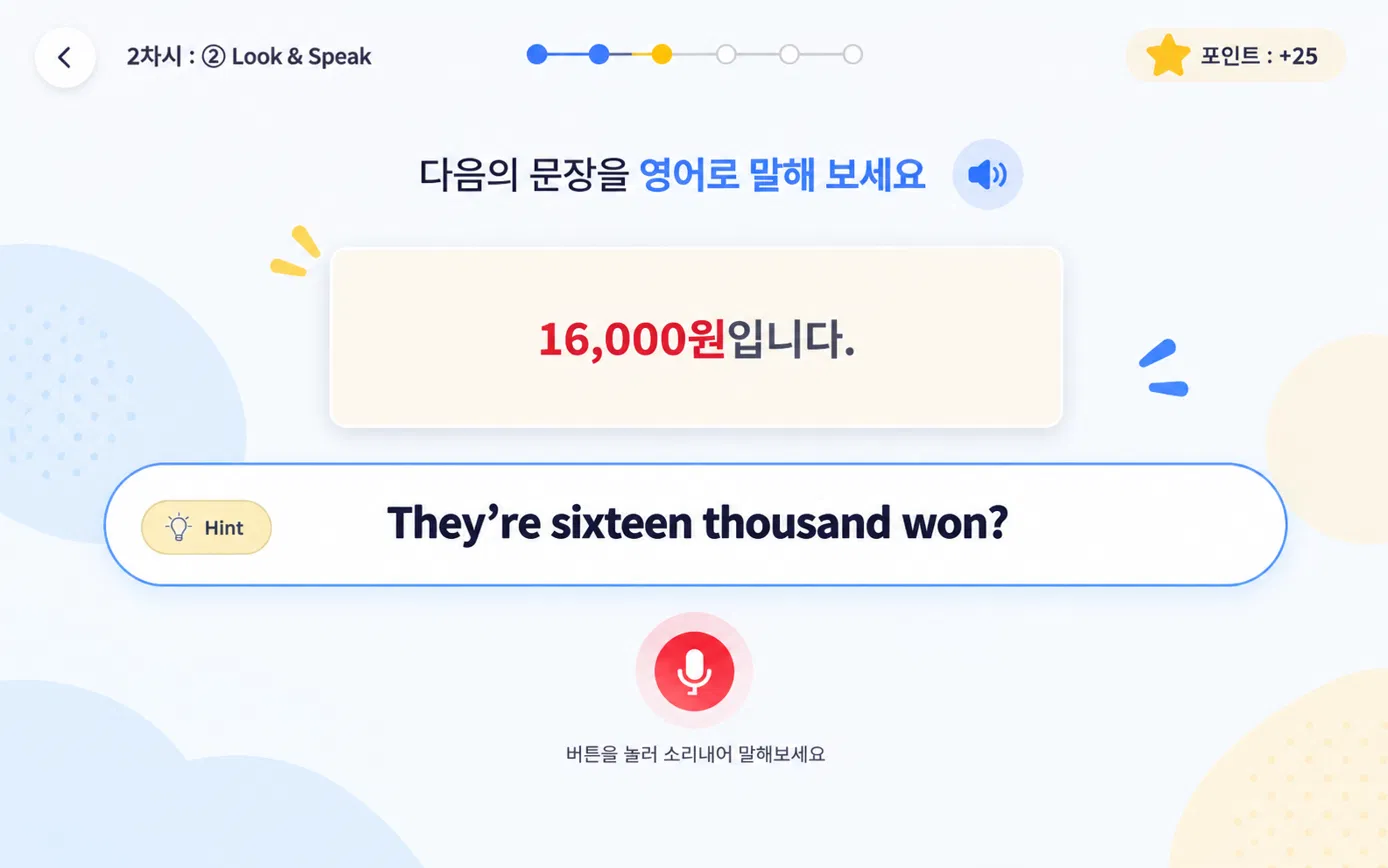
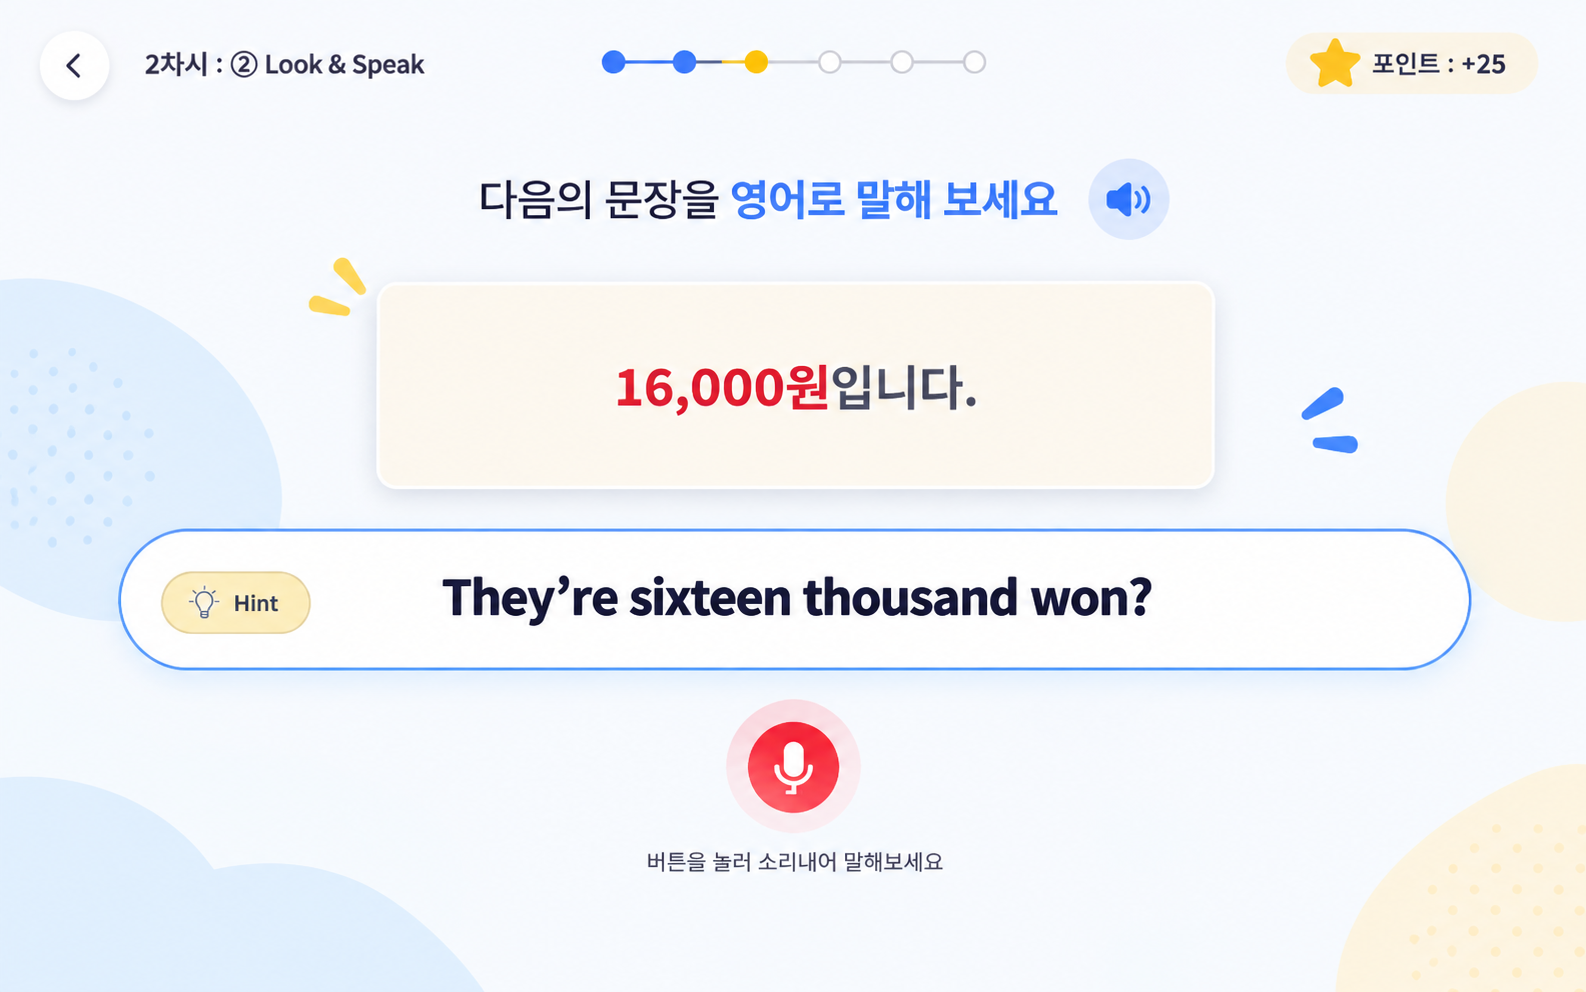
design: 인호님 원래 요청문 저장, 테스트 결과 정리
Claude-Session: https://claude.ai/code/session_01NrDAbCMeQGxPyJ4qzxdf1W

Changed region(s): [[0.4647, 0.1866, 0.5886, 0.2177], [0.6196, 0.1866, 0.6506, 0.2177], [0.4957, 0.3733, 0.5267, 0.4044]]

diff --git a/design/prompts/look-speak.md b/design/prompts/look-speak.md
@@ -1,0 +1,5 @@
+이 activity 디자인 시안을 실제 activity에 적용하기 위해서는 html 파일로 만들어야 하는데,
+그렇게 하기 위해서, 배경화면과 각 디자인 요소들을 분리해서 작업해줘.
+그리고 '16,000원입니다'가 포함된 box는 필요에 따라 가로로 더 커질 수 있기 때문에 그러한 부분을 고려하여
+실제 html파일로 만들기 위한 디자인 요소 분리 작업을 해줘.
+(참고: index.html, styles.css, script.js, assets/ 구조로 만들어 zip 으로 저장. 기준 해상도 1280×800)
